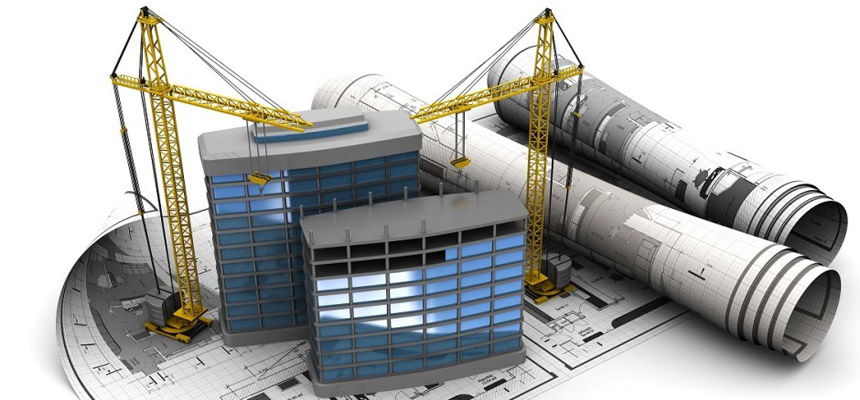
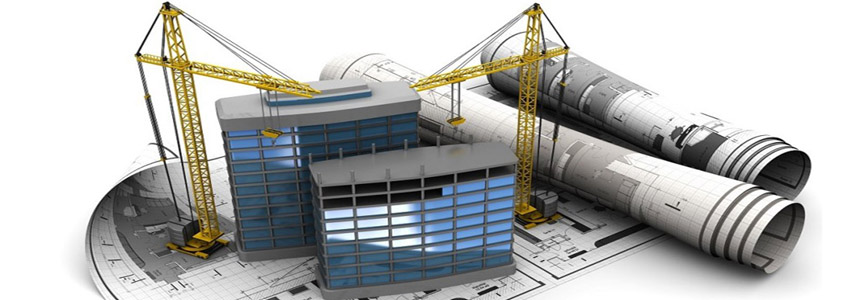
optimization code

diff --git a/Style/style.css b/Style/style.css
@@ -235,7 +235,7 @@ body{
 
 .mcb_img_about_us {
     width: 860px;
-    height: 400px;
+    height: 300px;
 }
 
 

diff --git a/templates/top.php b/templates/top.php
@@ -1,6 +1,8 @@
 <?php
+//подключение config.php
     require_once("config/config.php");
 ?>
+
 <!DOCTYPE html>
 <html lang="en">
 <head>
@@ -9,55 +11,32 @@
     <title>Главная страница</title>
 </head>
 <body>
-    <div class="wrapper">
+    <div class="wrapper">         
        
-       
-       
-       
-       
-       
-       <header class="main_header">
+       <header class="main_header"> 
+           
             <a href="#">
                 <img src="imgs/main_header.jpg" alt="">
             </a>
+            
             <nav class="main_nav">
                 <ol>
 <?php
-    $query="SELECT * FROM maintexts WHERE showhide = 'show' ORDER BY id";
-
-    $result = mysqli_query($dbcon, $query);
-
-    if(!$result){
-        exit($query);
-    }
-    while($tbl_arr=mysqli_fetch_array($result)){
-    ?>
-                <li>
-                    <a href="index.php?url=<?php echo $tbl_arr['url']?>"><?php echo $tbl_arr['name']?></a>                    
-                </li>
-        <?php
-    }
+    require_once("config/connect_menu.php");
 ?> 
                     <li>
                         <a href="news.php">Новости</a>
                     </li>
                     <li>
-                        <a href="our_work.php">Наша работы</a>                    
-                    </li>
-                    
+                        <a href="our_work.php">Наша работы</a>
+                    </li>                    
                 </ol>
-            </nav>
-        </header>
+            </nav> <!--END main_nav-->
+        </header> <!--END main_header-->
         
+     
         
-        
-        
-        
-        
-        
-        
-        
-        
+   
         
         
         <aside class="main_news">
@@ -90,18 +69,11 @@
                 </article>
             </section>
         </aside>
-        
-        
-        
-        
-        
-        
-        
-        <div class="main_content">
             
-            
+        
+        
+        
+        
+        
+        <div class="main_content">           
             <article class="main_content_block">
-           
-
-           
-        

diff --git a/index.php b/index.php
@@ -1,35 +1,46 @@
 <?php
-    require_once("templates/top.php");
+//подключение top.php
+    require_once("templates/top.php");  
     
-    if(isset($_GET['url'])) {
+//если сцществует GET параметр с переменной url, то в переменную заносим ее значение иначе index
+    if(isset($_GET['url'])) {  
         $file=$_GET['url'];
     }
     else {
         $file='index';
     }
 
+//в переменную заносим строкуу с текстом запроса
     $query="SELECT * FROM maintexts WHERE url='$file'";
+
+//выполнение подключения к базе по запросу заносим в переменную
     $result=mysqli_query($dbcon, $query);
-    
+
+//если запрос НЕ выполнен, то выходим и выдаем текст ошибки    
     if(!$result){
-        exit($query);
+        exit("не проходит url");
     }
-    
+
+//сохраняем ассоциативный массив выборки в переменную    
     $tbl_arr=mysqli_fetch_array($result);
-    
-
-
-
-
-
-
-
 ?>
-               <h1 class="mcb_head">
-                    <?php echo $tbl_arr['name'];?>
-                </h1>
-                           
-                <?php echo $tbl_arr['body'];
 
+
+
+<h1 class="mcb_head">
+   <?php echo $tbl_arr['name']; /* заголовок статьи */ ?> 
+</h1>
+     
+<div class="mcb_img">
+    <img src="<?php echo $tbl_arr['img']  /* картинка статьи*/ ?>" alt="img1">  
+</div>                      
+
+<p class="mcb_article">
+    <?php echo $tbl_arr['body']  /* текст статьи */  ?>
+</p>  
+
+            
+<?php
+    //подключение bottom.php
     require_once("templates/bottom.php");
 ?>

diff --git a/templates/bottom.php b/templates/bottom.php
@@ -1,7 +1,7 @@
-            </article>
-</div>
+            </article><!--END main_content_block-->
+        </div> <!--END main_content-->
         
-        
+       
         
         
         
@@ -10,37 +10,23 @@
             <nav class="main_nav_footer">
                 <ol>
 <?php
-    $query="SELECT * FROM maintexts WHERE showhide = 'show' ORDER BY id";
-
-    $result = mysqli_query($dbcon, $query);
-
-    if(!$result){
-        exit($query);
-    }
-    while($tbl_arr=mysqli_fetch_array($result)){
-    ?>
-                <li>
-                    <a href="index.php?url=<?php echo $tbl_arr['url']?>"><?php echo $tbl_arr['name']?></a>                    
-                </li>
-        <?php
-    }
+    require_once("config/connect_menu.php");
 ?> 
                     <li>
                         <a href="#">Новости</a>
                     </li>
                     <li>
                         <a href="#">Наша продукция</a>                    
-                    </li>
-                    
+                    </li>                    
                 </ol>
-            </nav>
-        </footer>
+            </nav><!--END main_nav_footer-->
+        </footer><!--END main_footer-->
         
         
         
         
         
         
-    </div>
+     </div> <!--END wrapper-->   
 </body>
 </html>

diff --git a/config/connect_menu.php b/config/connect_menu.php
@@ -1,0 +1,20 @@
+<?php
+    $query="SELECT * FROM maintexts WHERE showhide = 'show' ORDER BY id";
+
+    $result = mysqli_query($dbcon, $query);
+
+    if(!$result){
+        exit("");
+    }
+
+    while($tbl_arr=mysqli_fetch_array($result))
+        {
+?>
+            <li>
+                <a href="index.php?url=<?php echo $tbl_arr['url']?>">
+                    <?php echo $tbl_arr['name']?>
+                </a>                    
+            </li>
+<?php
+        }
+?>
